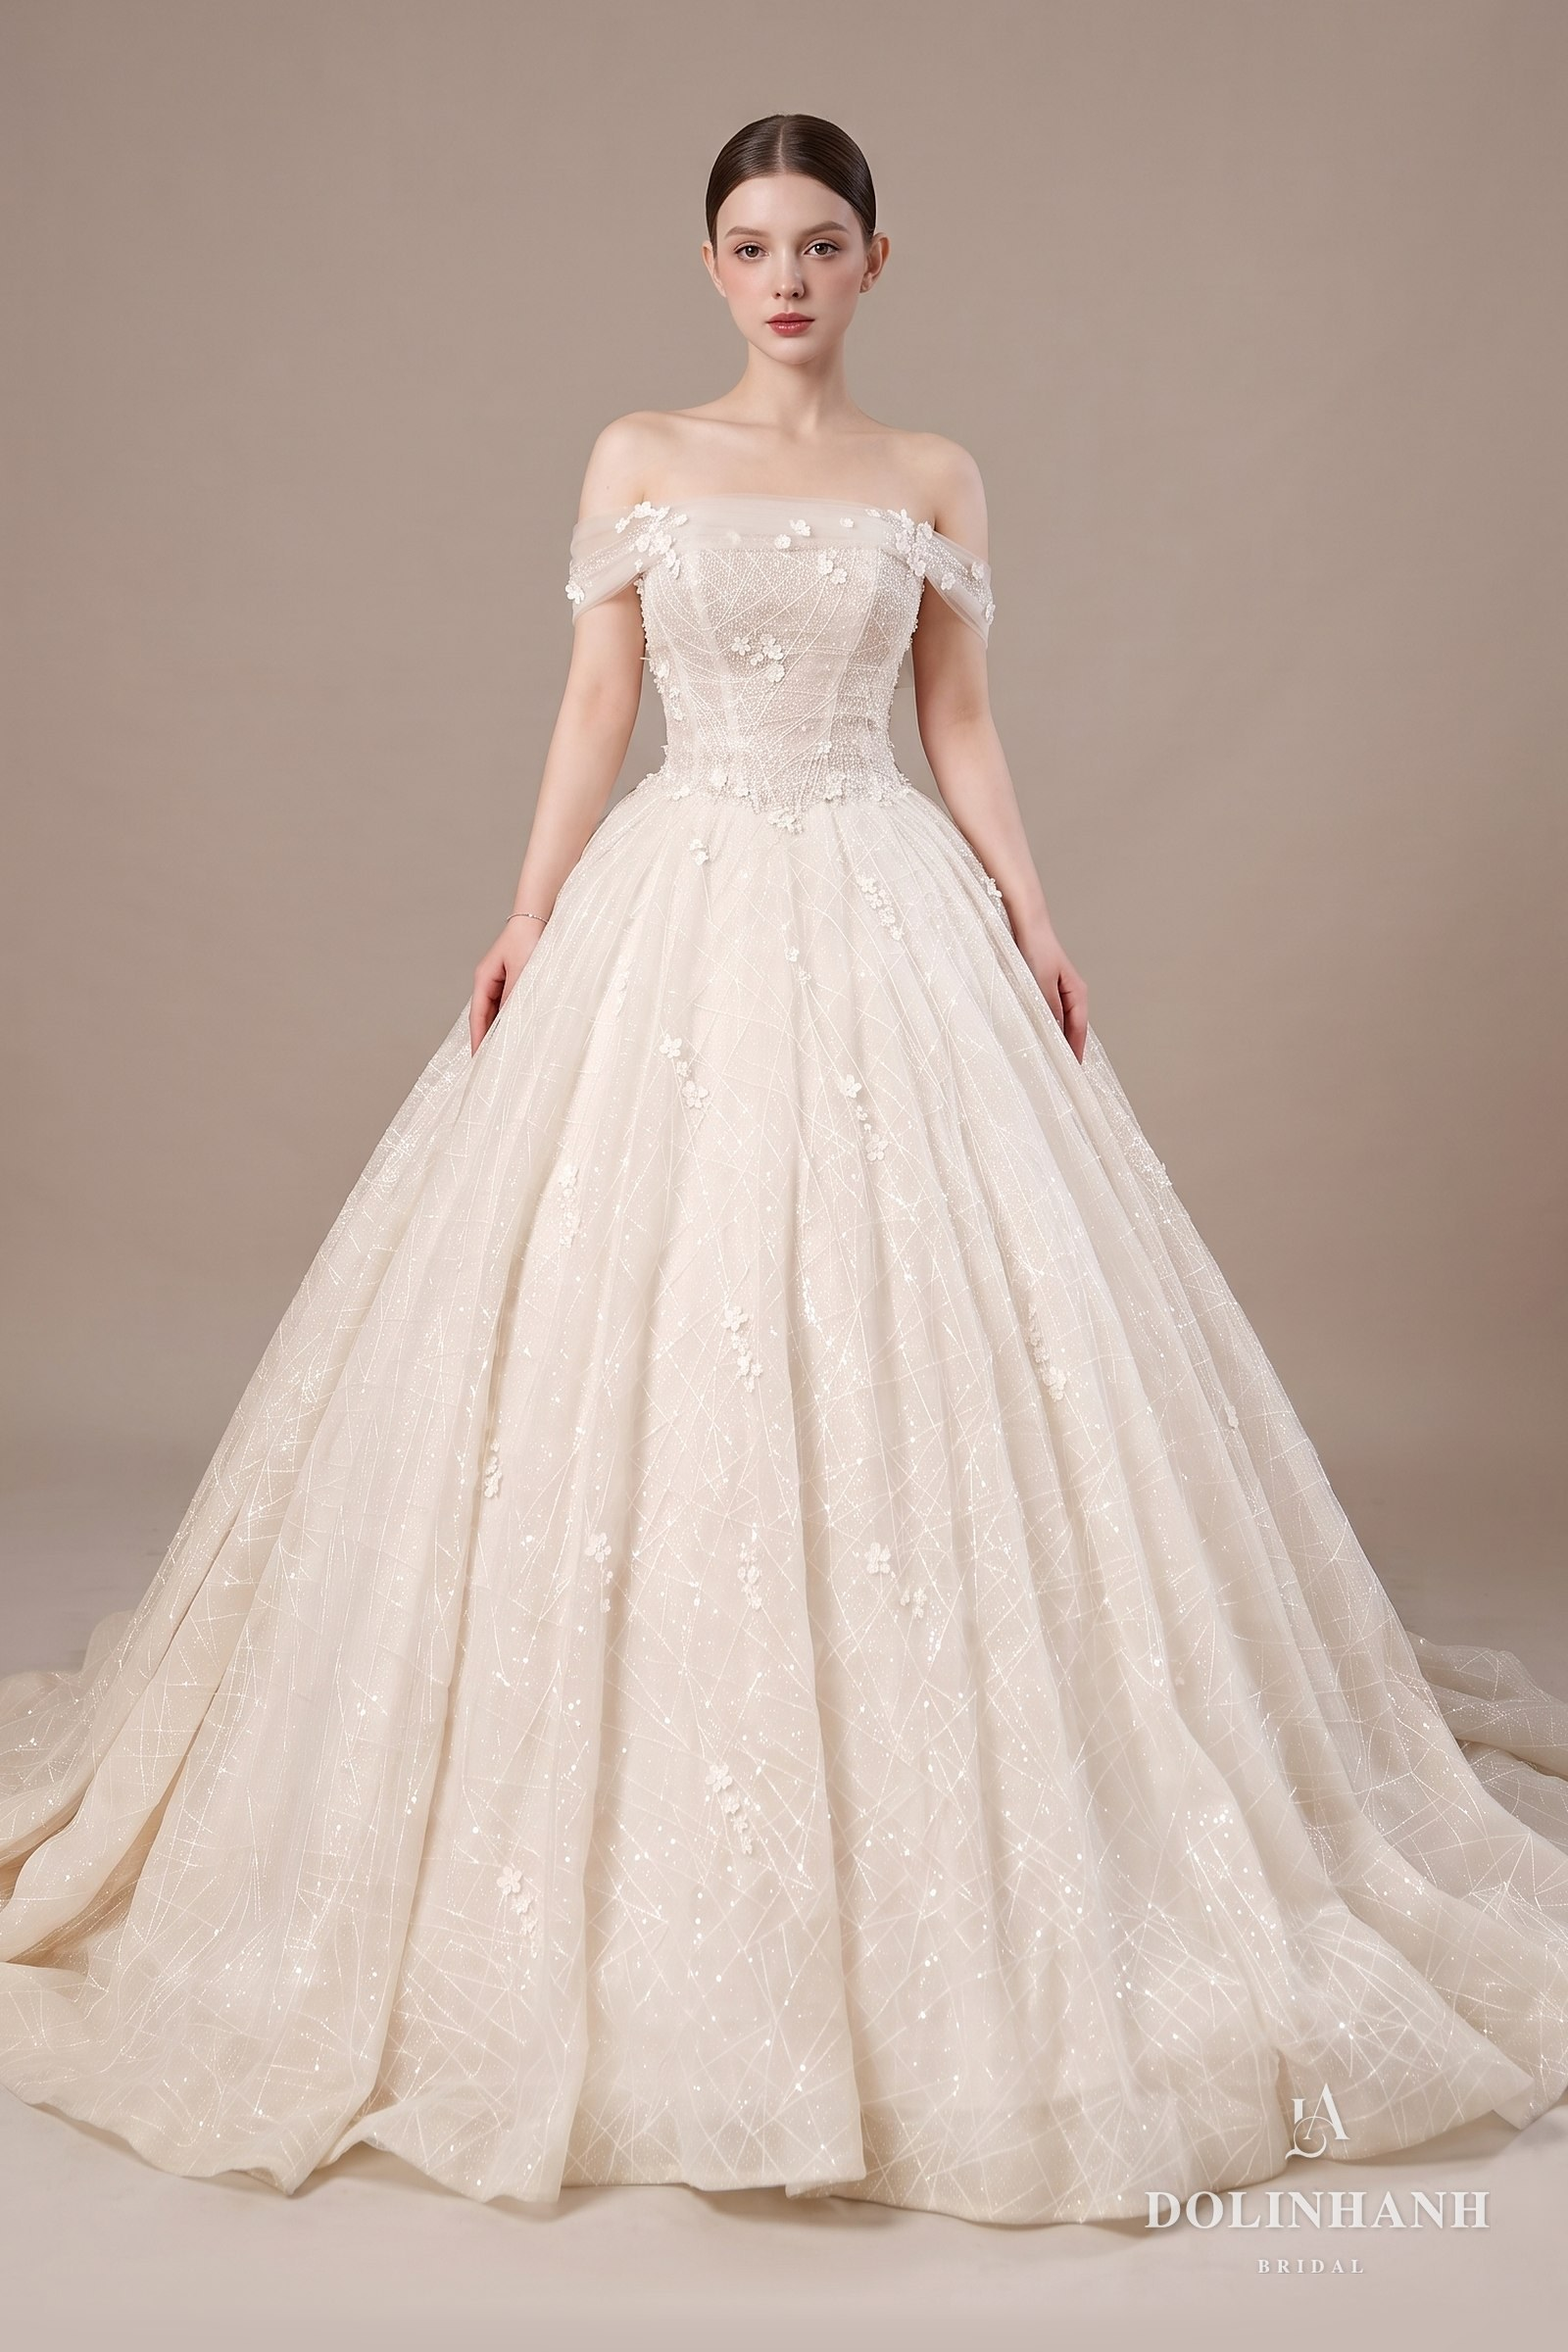
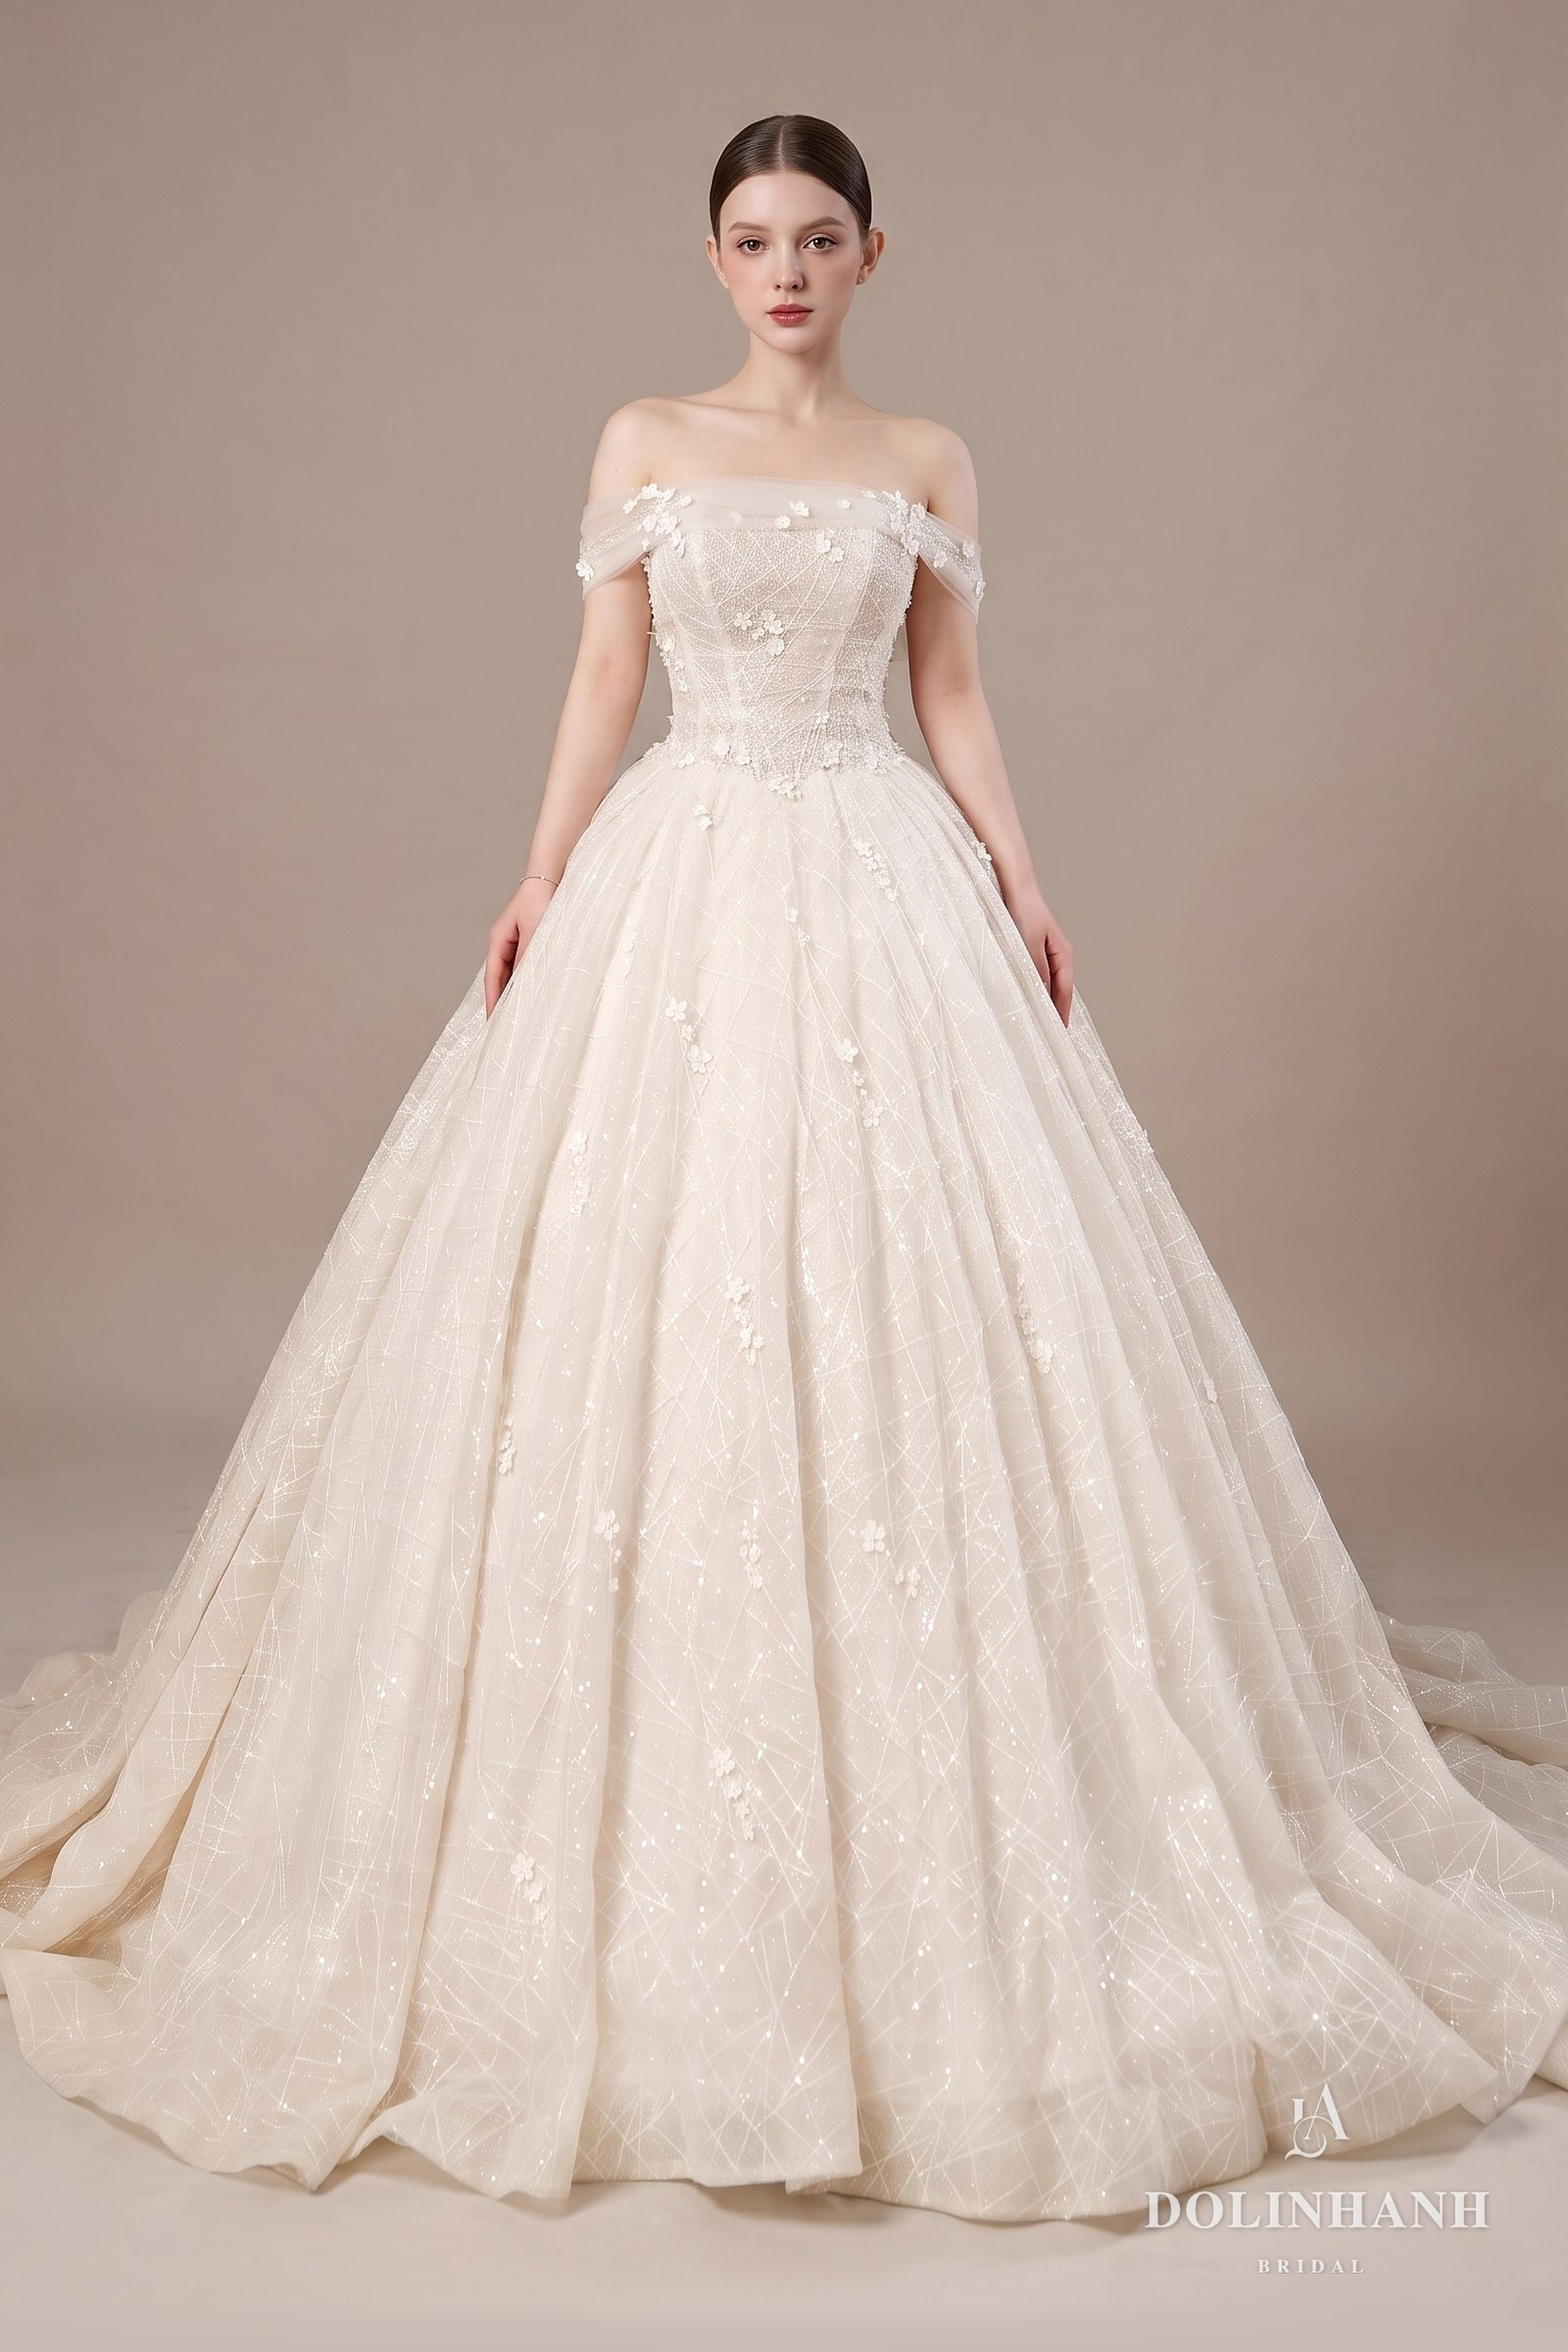
MS 321 dài chân 8% theo web chính

diff --git a/bo-suu-tap.html b/bo-suu-tap.html
@@ -2245,7 +2245,7 @@ src="https://www.facebook.com/tr?id=1358640082651240&ev=PageView&noscript=1"
         </figure>
         <figure data-dang="ballgown" data-mood="timeless" data-coso="hn">
           <div class="sl-khung">
-            <div class="sl" data-img="anh/vay/ms321/01.jpg?v=2" data-lon="anh/vay/ms321/lon.jpg?v=2"></div>
+            <div class="sl" data-img="anh/vay/ms321/01.jpg?v=3" data-lon="anh/vay/ms321/lon.jpg?v=3"></div>
           </div>
           <figcaption><span class="kind" data-en="Dolinhanh Bridal" data-zh="Dolinhanh Bridal">Dolinhanh Bridal</span><span class="nm">MS 321</span><span class="de" data-en="Ball gown, beaded lace" data-zh="大蓬裙，钉珠蕾丝">Dáng xoè, ren đính kết</span><span class="gia">US$1,080</span></figcaption>
         </figure>
@@ -4186,3 +4186,4 @@ setLang(saved);
   kiem(); setTimeout(kiem,400); setTimeout(kiem,1500);
 })();
 </script>
+<script src="gio-hang.js?v=1"></script>
